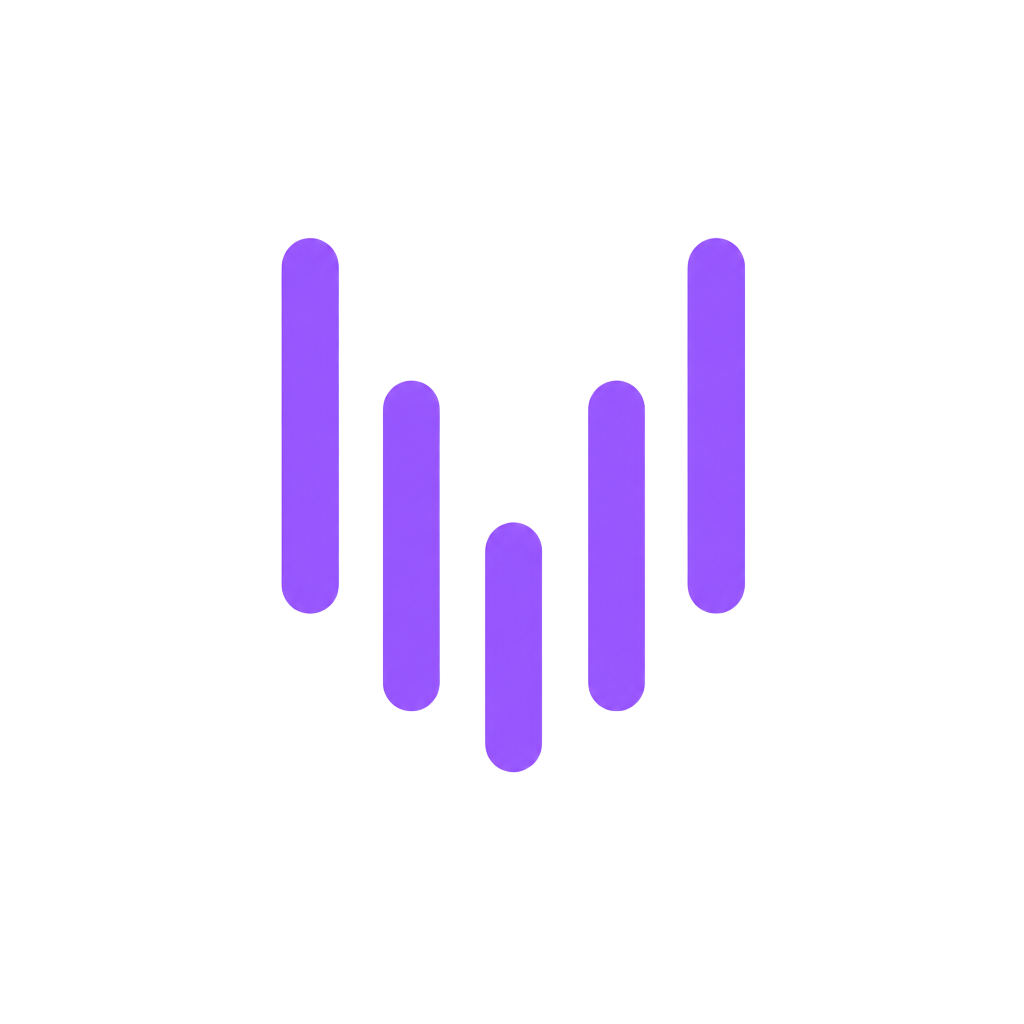
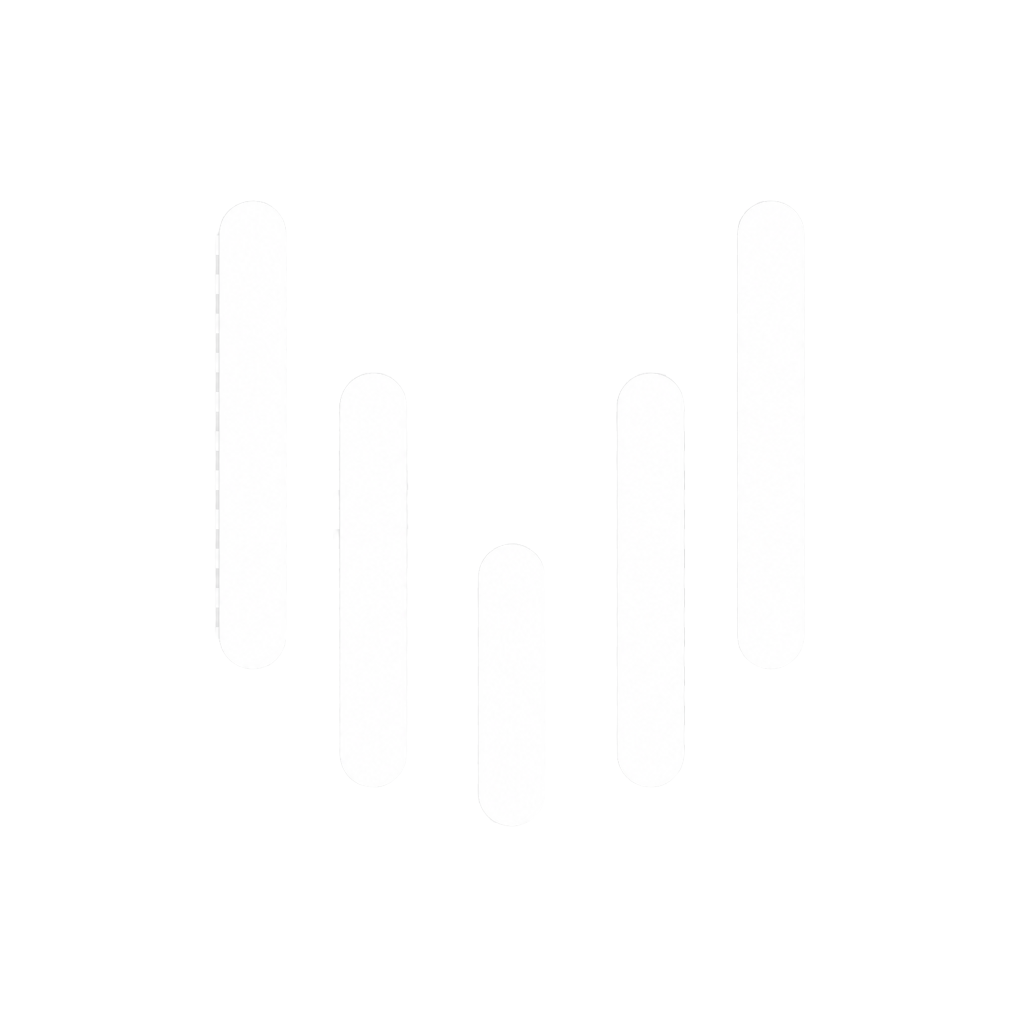
Add animated splash screen component and update mobile app configuration
Replit-Commit-Author: Agent

diff --git a/artifacts/mobile/components/AnimatedSplash.tsx b/artifacts/mobile/components/AnimatedSplash.tsx
@@ -1,0 +1,209 @@
+import React, { useEffect, useRef, useState } from "react";
+import {
+  Animated,
+  Dimensions,
+  Easing,
+  Image,
+  StyleSheet,
+  Text,
+  View,
+} from "react-native";
+
+const { width, height } = Dimensions.get("window");
+const APP_NAME = "Vox";
+const TYPING_SPEED = 120; // ms per character
+const CURSOR_BLINK_SPEED = 500;
+const POST_TYPE_HOLD = 800; // ms to hold after typing completes
+const FADE_OUT_DURATION = 600;
+
+interface AnimatedSplashProps {
+  onDone: () => void;
+}
+
+export function AnimatedSplash({ onDone }: AnimatedSplashProps) {
+  // --- Animated values ---
+  const iconScale = useRef(new Animated.Value(0)).current;
+  const iconTranslateY = useRef(new Animated.Value(30)).current;
+  const iconOpacity = useRef(new Animated.Value(0)).current;
+  const taglineOpacity = useRef(new Animated.Value(0)).current;
+  const cursorOpacity = useRef(new Animated.Value(1)).current;
+  const screenOpacity = useRef(new Animated.Value(1)).current;
+
+  // --- Typing state ---
+  const [displayedText, setDisplayedText] = useState("");
+  const [showCursor, setShowCursor] = useState(false);
+
+  useEffect(() => {
+    let destroyed = false;
+
+    // Phase 1: Icon bounces in
+    Animated.parallel([
+      Animated.spring(iconScale, {
+        toValue: 1,
+        tension: 60,
+        friction: 7,
+        useNativeDriver: true,
+      }),
+      Animated.timing(iconTranslateY, {
+        toValue: 0,
+        duration: 600,
+        easing: Easing.out(Easing.cubic),
+        useNativeDriver: true,
+      }),
+      Animated.timing(iconOpacity, {
+        toValue: 1,
+        duration: 400,
+        useNativeDriver: true,
+      }),
+    ]).start(() => {
+      if (destroyed) return;
+
+      // Phase 2: Fade in tagline slot, start typing
+      Animated.timing(taglineOpacity, {
+        toValue: 1,
+        duration: 200,
+        useNativeDriver: true,
+      }).start();
+
+      setShowCursor(true);
+      let index = 0;
+
+      const typeNext = () => {
+        if (destroyed) return;
+        index++;
+        setDisplayedText(APP_NAME.slice(0, index));
+        if (index < APP_NAME.length) {
+          setTimeout(typeNext, TYPING_SPEED);
+        } else {
+          // Phase 3: Blink cursor briefly then fade everything out
+          setTimeout(() => {
+            if (destroyed) return;
+
+            // Stop blinking — leave cursor visible for exit
+            Animated.timing(screenOpacity, {
+              toValue: 0,
+              duration: FADE_OUT_DURATION,
+              easing: Easing.in(Easing.ease),
+              useNativeDriver: true,
+            }).start(() => {
+              if (!destroyed) onDone();
+            });
+          }, POST_TYPE_HOLD);
+        }
+      };
+
+      setTimeout(typeNext, 200);
+    });
+
+    // Blinking cursor loop
+    const blink = Animated.loop(
+      Animated.sequence([
+        Animated.timing(cursorOpacity, {
+          toValue: 0,
+          duration: CURSOR_BLINK_SPEED,
+          useNativeDriver: true,
+        }),
+        Animated.timing(cursorOpacity, {
+          toValue: 1,
+          duration: CURSOR_BLINK_SPEED,
+          useNativeDriver: true,
+        }),
+      ])
+    );
+    blink.start();
+
+    return () => {
+      destroyed = true;
+      blink.stop();
+    };
+  }, []);
+
+  return (
+    <Animated.View style={[styles.container, { opacity: screenOpacity }]}>
+      {/* Icon */}
+      <Animated.View
+        style={[
+          styles.iconWrapper,
+          {
+            opacity: iconOpacity,
+            transform: [
+              { scale: iconScale },
+              { translateY: iconTranslateY },
+            ],
+          },
+        ]}
+      >
+        <Image
+          source={require("@/assets/images/icon.png")}
+          style={styles.icon}
+          resizeMode="contain"
+        />
+      </Animated.View>
+
+      {/* Typing name */}
+      <Animated.View style={[styles.nameRow, { opacity: taglineOpacity }]}>
+        <Text style={styles.nameText}>{displayedText}</Text>
+        {showCursor && (
+          <Animated.Text
+            style={[styles.cursor, { opacity: cursorOpacity }]}
+          >
+            |
+          </Animated.Text>
+        )}
+      </Animated.View>
+
+      {/* Tagline */}
+      <Animated.View style={{ opacity: taglineOpacity }}>
+        <Text style={styles.tagline}>Your AI voice assistant</Text>
+      </Animated.View>
+    </Animated.View>
+  );
+}
+
+const styles = StyleSheet.create({
+  container: {
+    ...StyleSheet.absoluteFillObject,
+    backgroundColor: "#0d0b1a",
+    alignItems: "center",
+    justifyContent: "center",
+    zIndex: 999,
+  },
+  iconWrapper: {
+    marginBottom: 32,
+    shadowColor: "#7c3aed",
+    shadowOffset: { width: 0, height: 0 },
+    shadowOpacity: 0.8,
+    shadowRadius: 40,
+    elevation: 20,
+  },
+  icon: {
+    width: 120,
+    height: 120,
+    borderRadius: 28,
+  },
+  nameRow: {
+    flexDirection: "row",
+    alignItems: "center",
+    marginBottom: 10,
+  },
+  nameText: {
+    fontFamily: "Inter_700Bold",
+    fontSize: 52,
+    color: "#f0eeff",
+    letterSpacing: 4,
+  },
+  cursor: {
+    fontFamily: "Inter_400Regular",
+    fontSize: 52,
+    color: "#7c3aed",
+    marginLeft: 2,
+    marginTop: -4,
+  },
+  tagline: {
+    fontFamily: "Inter_400Regular",
+    fontSize: 14,
+    color: "#6b60a0",
+    letterSpacing: 2,
+    textTransform: "uppercase",
+  },
+});

diff --git a/artifacts/mobile/app/_layout.tsx b/artifacts/mobile/app/_layout.tsx
@@ -13,6 +13,7 @@ import { GestureHandlerRootView } from "react-native-gesture-handler";
 import { KeyboardProvider } from "react-native-keyboard-controller";
 import { SafeAreaProvider } from "react-native-safe-area-context";
 
+import { AnimatedSplash } from "@/components/AnimatedSplash";
 import { ErrorBoundary } from "@/components/ErrorBoundary";
 import { AssistantProvider } from "@/context/AssistantContext";
 
@@ -38,15 +39,15 @@ export default function RootLayout() {
     Inter_700Bold,
   });
   const [fontTimeoutExpired, setFontTimeoutExpired] = useState(false);
-  const [splashHidden, setSplashHidden] = useState(false);
+  const [fontsReady, setFontsReady] = useState(false);
+  const [animatedSplashDone, setAnimatedSplashDone] = useState(false);
   const fontTimerRef = useRef<ReturnType<typeof setTimeout> | null>(null);
 
-  // Fallback: hide splash after 2s even if fonts never resolve
+  // Fallback: mark fonts ready after 2 s even if they never resolve
   useEffect(() => {
     fontTimerRef.current = setTimeout(() => {
       setFontTimeoutExpired(true);
-      setSplashHidden(true);
-      SplashScreen.hideAsync().catch(() => {});
+      setFontsReady(true);
     }, 2000);
     return () => {
       if (fontTimerRef.current) clearTimeout(fontTimerRef.current);
@@ -59,12 +60,20 @@ export default function RootLayout() {
         clearTimeout(fontTimerRef.current);
         fontTimerRef.current = null;
       }
-      setSplashHidden(true);
-      SplashScreen.hideAsync().catch(() => {});
+      setFontsReady(true);
     }
   }, [fontsLoaded, fontError]);
 
-  if (!splashHidden) return null;
+  // Hide the native splash as soon as fonts are ready — our JS animated
+  // splash takes over from here, rendered on top of the real app.
+  useEffect(() => {
+    if (fontsReady) {
+      SplashScreen.hideAsync().catch(() => {});
+    }
+  }, [fontsReady]);
+
+  // Don't render anything until fonts are ready (keeps native splash visible)
+  if (!fontsReady) return null;
 
   return (
     <SafeAreaProvider>
@@ -74,6 +83,11 @@ export default function RootLayout() {
             <KeyboardProvider>
               <AssistantProvider>
                 <RootLayoutNav />
+
+                {/* Animated splash sits on top, fades out when done */}
+                {!animatedSplashDone && (
+                  <AnimatedSplash onDone={() => setAnimatedSplashDone(true)} />
+                )}
               </AssistantProvider>
             </KeyboardProvider>
           </GestureHandlerRootView>
